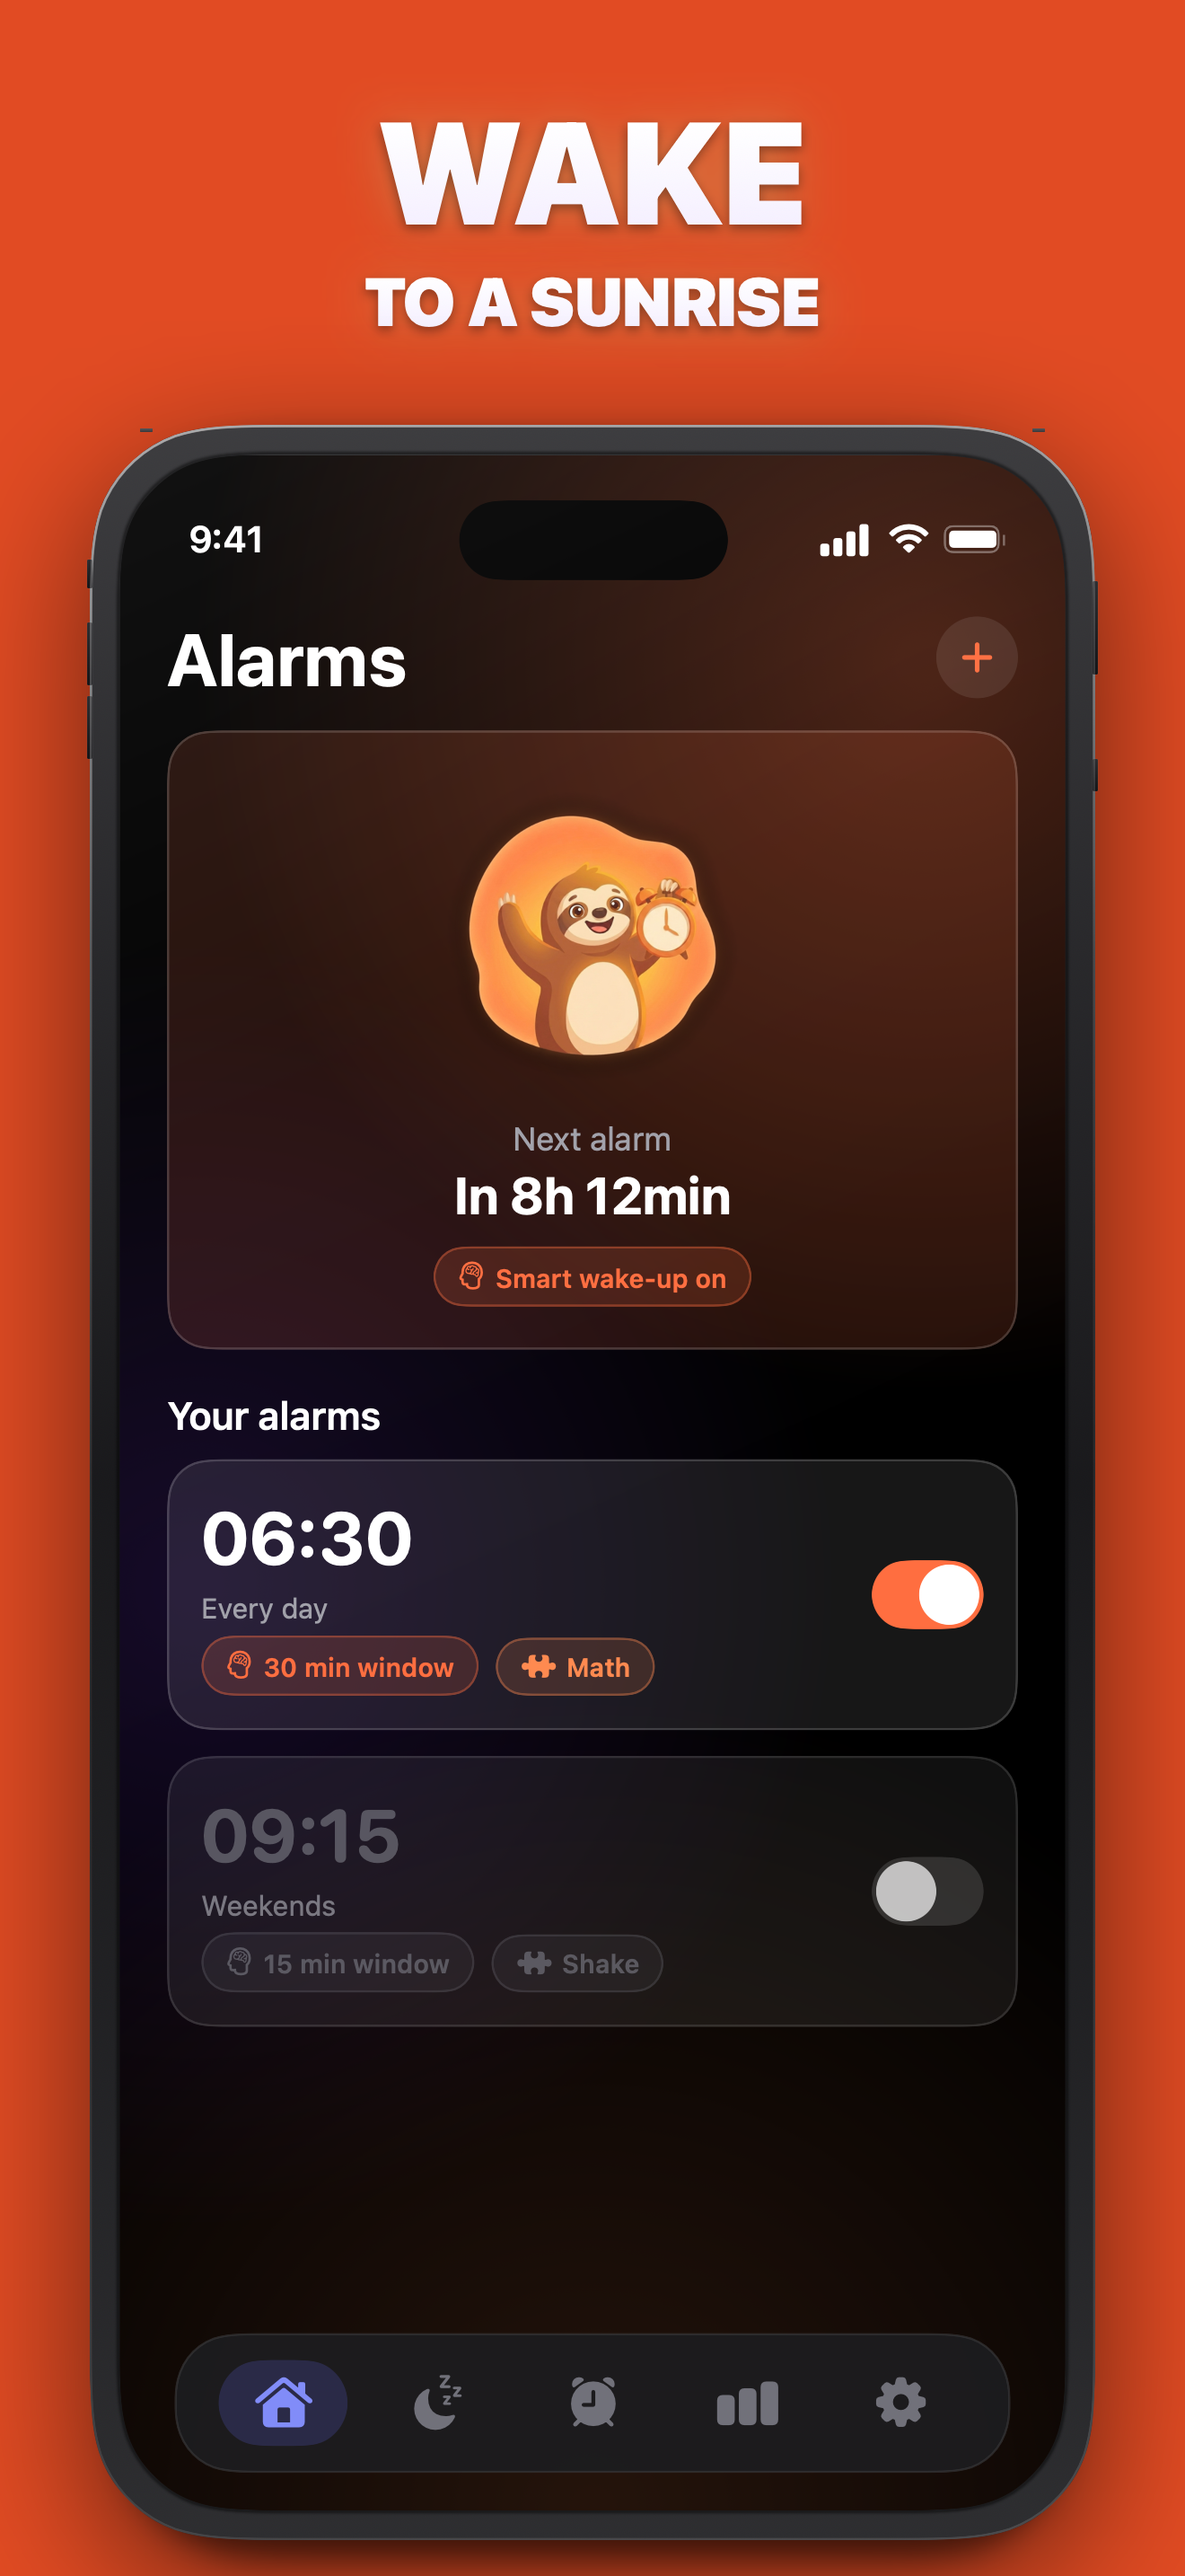
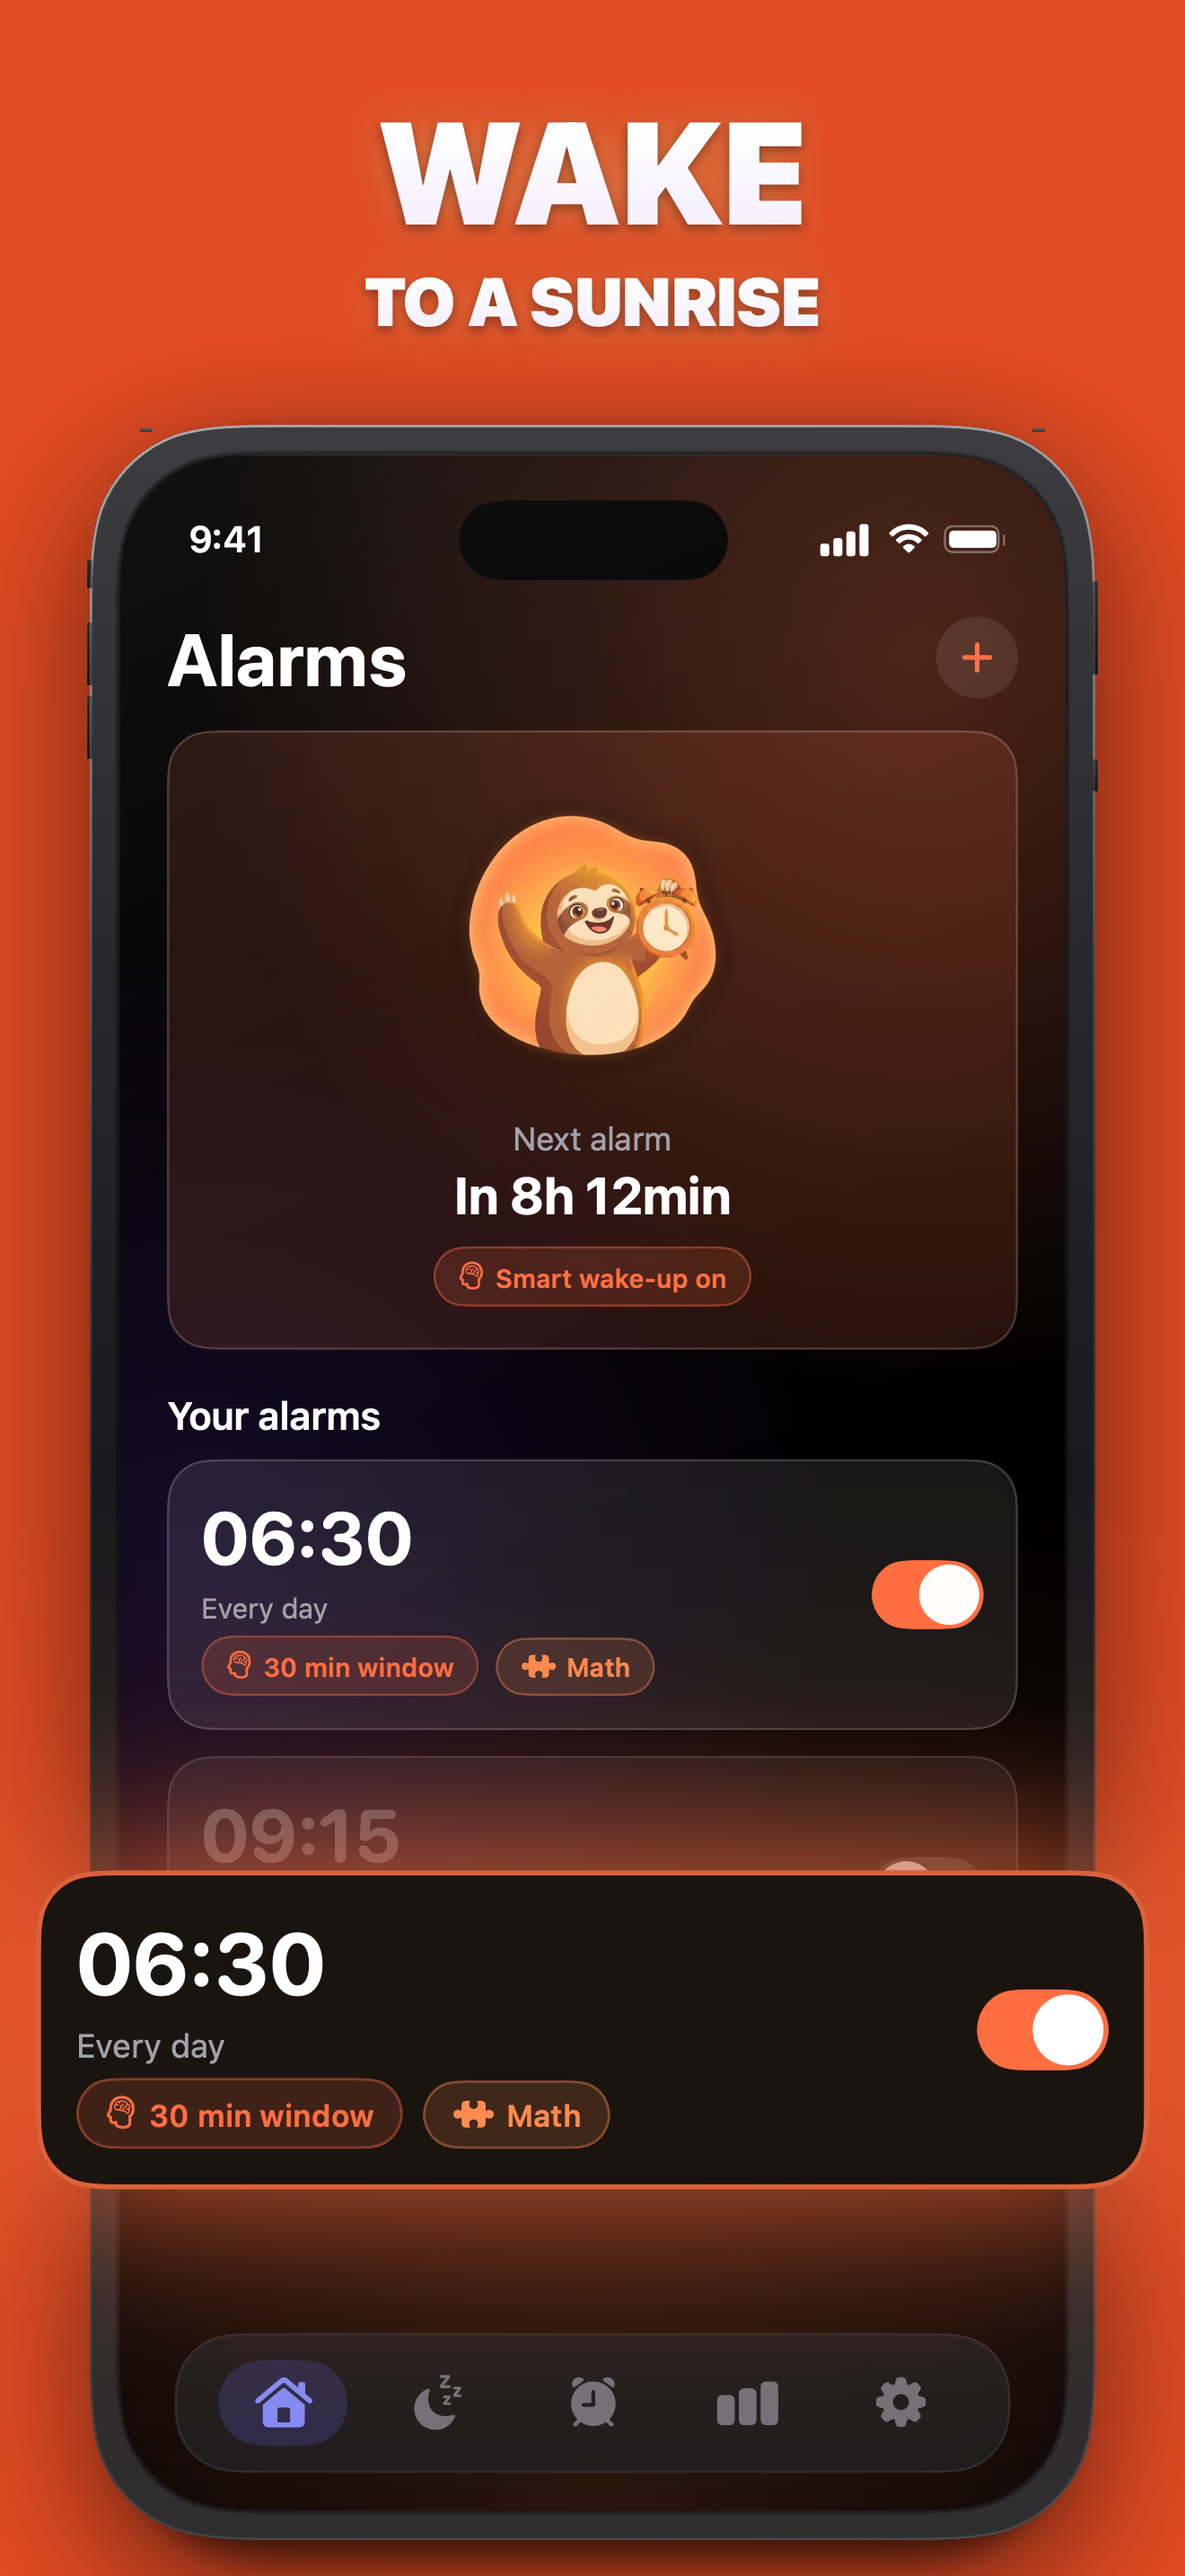
Breakouts on the prints — core component pops over the device with the brand glow
Each print's core section breaks out wider than the phone (both bezels
overhung): the smart-alarm card, the math mission, the hypnogram, the
duration-vs-goal chart; the greeting stays a standalone hero. Glow is the
app primary on all five, built as blurred plates behind the opaque card —
.shadow() under ImageRenderer stamps a plate behind every glyph (the known
kit artifact).

Changed region(s): [[0.0311, 0.6517, 0.9939, 0.8999]]

diff --git a/screenshots-tool/Sources/SoninhoScreenshots/Screens/Breakouts.swift b/screenshots-tool/Sources/SoninhoScreenshots/Screens/Breakouts.swift
@@ -1,0 +1,298 @@
+import SwiftUI
+
+// MARK: - Breakout Framing
+//
+// House look: the print's CORE component pops out over the device — scaled
+// wider than the phone (overhangs both bezels), rounded, brand-orange border
+// + glow, the SAME glow color on all five prints.
+
+private let breakoutGlow = AppPalette.primary
+
+func breakoutForeground<V: View>(
+    _ view: V,
+    authorWidth: CGFloat = 440,
+    targetWidth: CGFloat = 1240,
+    y: CGFloat,
+    canvas: CGSize
+) -> AnyView {
+    AnyView(
+        ZStack {
+            view
+                .frame(width: authorWidth)
+                .background(
+                    RoundedRectangle(cornerRadius: 24, style: .continuous)
+                        .fill(Color(hex: 0x1A140F))
+                )
+                .clipShape(RoundedRectangle(cornerRadius: 24, style: .continuous))
+                .overlay(
+                    RoundedRectangle(cornerRadius: 24, style: .continuous)
+                        .strokeBorder(breakoutGlow.opacity(0.85), lineWidth: 2)
+                )
+                // Glow as blurred plates BEHIND the opaque card — a .shadow()
+                // here makes ImageRenderer stamp a shadow plate behind every
+                // glyph (the known kit artifact).
+                .background(
+                    RoundedRectangle(cornerRadius: 28, style: .continuous)
+                        .fill(breakoutGlow.opacity(0.60))
+                        .padding(-6)
+                        .blur(radius: 30)
+                )
+                .background(
+                    RoundedRectangle(cornerRadius: 34, style: .continuous)
+                        .fill(breakoutGlow.opacity(0.28))
+                        .padding(-16)
+                        .blur(radius: 70)
+                )
+                .scaleEffect(targetWidth / authorWidth, anchor: .center)
+                .position(x: canvas.width / 2, y: y)
+        }
+        .frame(width: canvas.width, height: canvas.height)
+    )
+}
+
+// MARK: - Alarm Card (slot 1 core — the smart alarm itself)
+struct AlarmCardMock: View {
+    let locale: String
+    private func L(_ en: String, _ pt: String, _ es: String) -> String {
+        locale == "pt-BR" ? pt : (locale.hasPrefix("es") ? es : en)
+    }
+
+    var body: some View {
+        HStack(spacing: 16) {
+            VStack(alignment: .leading, spacing: 5) {
+                Text("06:30")
+                    .font(.system(size: 34, weight: .bold, design: .rounded))
+                    .foregroundStyle(AppPalette.textPrimary)
+
+                Text(L("Every day", "Todos os dias", "Todos los días"))
+                    .font(.system(size: 13))
+                    .foregroundStyle(AppPalette.textSecondary)
+
+                HStack(spacing: 8) {
+                    GlassChip(icon: "brain.head.profile", text: L("30 min window", "Janela de 30 min", "Ventana de 30 min"))
+                    GlassChip(icon: "puzzlepiece.fill", text: L("Math", "Matemática", "Cálculo"), tint: AppPalette.primaryLight)
+                }
+            }
+            Spacer()
+            Capsule()
+                .fill(AppPalette.primary)
+                .frame(width: 52, height: 32)
+                .overlay(Circle().fill(.white).frame(width: 28, height: 28).offset(x: 10))
+        }
+        .padding(16)
+    }
+}
+
+// MARK: - Mission Card (slot 2 core — solve to turn off)
+struct MissionCardMock: View {
+    let locale: String
+    private func L(_ en: String, _ pt: String, _ es: String) -> String {
+        locale == "pt-BR" ? pt : (locale.hasPrefix("es") ? es : en)
+    }
+
+    var body: some View {
+        VStack(spacing: 12) {
+            HStack(spacing: 6) {
+                ForEach(0..<3, id: \.self) { index in
+                    Circle()
+                        .fill(index == 0 ? AppPalette.primary : Color.white.opacity(0.18))
+                        .frame(width: 9, height: 9)
+                }
+            }
+
+            Text(L("Solve to turn off", "Resolva para desligar", "Resuelve para apagar"))
+                .font(.system(size: 15))
+                .foregroundStyle(AppPalette.textSecondary)
+
+            Text("24 + 17")
+                .font(.system(size: 52, weight: .bold, design: .rounded))
+                .foregroundStyle(AppPalette.textPrimary)
+
+            Text("4")
+                .font(.system(size: 38, weight: .semibold, design: .rounded))
+                .foregroundStyle(AppPalette.primary)
+
+            VStack(spacing: 8) {
+                keypadRow(["1", "2", "3"])
+                keypadRow(["4", "5", "6"])
+            }
+        }
+        .padding(18)
+    }
+
+    private func keypadRow(_ keys: [String]) -> some View {
+        HStack(spacing: 8) {
+            ForEach(keys, id: \.self) { key in
+                Text(key)
+                    .font(.system(size: 24, weight: .semibold, design: .rounded))
+                    .foregroundStyle(AppPalette.textPrimary)
+                    .frame(maxWidth: .infinity)
+                    .frame(height: 50)
+                    .background(
+                        RoundedRectangle(cornerRadius: 14, style: .continuous)
+                            .fill(Color.white.opacity(0.10))
+                            .overlay(
+                                RoundedRectangle(cornerRadius: 14, style: .continuous)
+                                    .strokeBorder(Color.white.opacity(0.15), lineWidth: 1)
+                            )
+                    )
+            }
+        }
+    }
+}
+
+// MARK: - Hypnogram Card (slot 3 core — the phases chart)
+struct HypnogramCardMock: View {
+    let locale: String
+    private func L(_ en: String, _ pt: String, _ es: String) -> String {
+        locale == "pt-BR" ? pt : (locale.hasPrefix("es") ? es : en)
+    }
+
+    private let spans: [(stage: Int, width: CGFloat)] = [
+        (4, 1.2), (2, 2.0), (1, 3.4), (2, 1.2), (3, 2.2), (1, 2.6),
+        (2, 1.0), (3, 2.8), (1, 2.2), (2, 1.4), (3, 1.8), (2, 1.0), (4, 1.4),
+    ]
+
+    private func stageColor(_ s: Int) -> Color {
+        switch s {
+        case 1: return AppPalette.deepSleep
+        case 2: return AppPalette.lightSleep
+        case 3: return AppPalette.remSleep
+        default: return AppPalette.awake
+        }
+    }
+
+    var body: some View {
+        VStack(alignment: .leading, spacing: 12) {
+            HStack {
+                VStack(alignment: .leading, spacing: 2) {
+                    Text(L("Sleep score", "Nota do sono", "Puntuación"))
+                        .font(.system(size: 13))
+                        .foregroundStyle(AppPalette.textSecondary)
+                    Text("86")
+                        .font(.system(size: 36, weight: .bold, design: .rounded))
+                        .foregroundStyle(AppPalette.success)
+                }
+                Spacer()
+                Text(L("7h 42min asleep", "7h 42min dormindo", "7h 42min dormido"))
+                    .font(.system(size: 14))
+                    .foregroundStyle(AppPalette.textSecondary)
+            }
+
+            hypnogram
+
+            HStack(spacing: 14) {
+                legendDot(AppPalette.awake, L("Awake", "Acordado", "Despierto"))
+                legendDot(AppPalette.lightSleep, L("Light", "Leve", "Ligero"))
+                legendDot(AppPalette.remSleep, "REM")
+                legendDot(AppPalette.deepSleep, L("Deep", "Profundo", "Profundo"))
+            }
+            .frame(maxWidth: .infinity)
+        }
+        .padding(18)
+    }
+
+    private var hypnogram: some View {
+        GeometryReader { geo in
+            let total = spans.reduce(0) { $0 + $1.width }
+            let rowHeight: CGFloat = (geo.size.height - 9) / 4
+            HStack(spacing: 1) {
+                ForEach(Array(spans.enumerated()), id: \.offset) { _, span in
+                    VStack(spacing: 0) {
+                        Spacer()
+                            .frame(height: CGFloat(span.stage - 1) * (rowHeight + 3))
+                        RoundedRectangle(cornerRadius: 3)
+                            .fill(stageColor(span.stage))
+                            .frame(height: rowHeight)
+                        Spacer(minLength: 0)
+                    }
+                    .frame(width: max(3, (geo.size.width - CGFloat(spans.count)) * span.width / total))
+                }
+            }
+        }
+        .frame(height: 92)
+    }
+
+    private func legendDot(_ color: Color, _ label: String) -> some View {
+        HStack(spacing: 5) {
+            Circle().fill(color).frame(width: 8, height: 8)
+            Text(label)
+                .font(.system(size: 12))
+                .foregroundStyle(AppPalette.textSecondary)
+        }
+    }
+}
+
+// MARK: - Duration Chart Card (slot 5 core — week vs goal)
+struct DurationChartCardMock: View {
+    let locale: String
+    private func L(_ en: String, _ pt: String, _ es: String) -> String {
+        locale == "pt-BR" ? pt : (locale.hasPrefix("es") ? es : en)
+    }
+
+    private let bars: [(day: String, hours: CGFloat, good: Bool)] = [
+        ("S", 6.8, false), ("M", 7.6, true), ("T", 8.1, true), ("W", 7.2, true),
+        ("T", 6.4, false), ("F", 7.9, true), ("S", 8.4, true),
+    ]
+
+    var body: some View {
+        VStack(alignment: .leading, spacing: 12) {
+            HStack {
+                Text(L("Sleep duration", "Duração do sono", "Duración del sueño"))
+                    .font(.system(size: 16, weight: .semibold))
+                    .foregroundStyle(AppPalette.textPrimary)
+                Spacer()
+                GlassChip(icon: "target", text: L("Goal 8h", "Meta 8h", "Meta 8h"), tint: AppPalette.success)
+            }
+
+            GeometryReader { geo in
+                let maxH = geo.size.height - 22
+                ZStack(alignment: .bottom) {
+                    VStack(spacing: 0) {
+                        Spacer().frame(height: maxH * (1 - 8.0 / 9.0))
+                        Rectangle()
+                            .fill(Color.clear)
+                            .frame(height: 1)
+                            .overlay(
+                                Rectangle()
+                                    .fill(AppPalette.textTertiary)
+                                    .frame(height: 1)
+                                    .mask(dashMask(width: geo.size.width))
+                            )
+                        Spacer()
+                    }
+                    HStack(alignment: .bottom, spacing: 10) {
+                        ForEach(Array(bars.enumerated()), id: \.offset) { _, bar in
+                            VStack(spacing: 6) {
+                                RoundedRectangle(cornerRadius: 5)
+                                    .fill(
+                                        LinearGradient(
+                                            colors: bar.good
+                                                ? [AppPalette.primaryLight, AppPalette.primary]
+                                                : [AppPalette.primary.opacity(0.45), AppPalette.primary.opacity(0.3)],
+                                            startPoint: .top, endPoint: .bottom
+                                        )
+                                    )
+                                    .frame(height: maxH * bar.hours / 9.0)
+                                Text(bar.day)
+                                    .font(.system(size: 11))
+                                    .foregroundStyle(AppPalette.textTertiary)
+                            }
+                            .frame(maxWidth: .infinity)
+                        }
+                    }
+                }
+            }
+            .frame(height: 150)
+        }
+        .padding(18)
+    }
+
+    private func dashMask(width: CGFloat) -> some View {
+        HStack(spacing: 5) {
+            ForEach(0..<Int(width / 10), id: \.self) { _ in
+                Rectangle().frame(width: 5, height: 1)
+            }
+        }
+    }
+}

diff --git a/screenshots-tool/Sources/SoninhoScreenshots/main.swift b/screenshots-tool/Sources/SoninhoScreenshots/main.swift
@@ -123,19 +123,22 @@ func renderLocaleSet(
     // Slot 1: Main / Home
     let url1 = outputDir.appendingPathComponent("01_main_iphone.png")
     try render(view: marketing(device: device, slot: 0, totalSlots: totalSlots,
-                                headline: treatment.home[locale], theme: theme) { MainScreen(locale: locale) },
+                                headline: treatment.home[locale], theme: theme,
+                                foreground: breakoutForeground(AlarmCardMock(locale: locale), y: 2260, canvas: canvas)) { MainScreen(locale: locale) },
                 canvas: canvas, scale: 1.0, to: url1)
 
     // Slot 2: Feature 1
     let url2 = outputDir.appendingPathComponent("02_feature1_iphone.png")
     try render(view: marketing(device: device, slot: 1, totalSlots: totalSlots,
-                                headline: treatment.feature1[locale], theme: theme) { Feature1Screen(locale: locale) },
+                                headline: treatment.feature1[locale], theme: theme,
+                                foreground: breakoutForeground(MissionCardMock(locale: locale), y: 2080, canvas: canvas)) { Feature1Screen(locale: locale) },
                 canvas: canvas, scale: 1.0, to: url2)
 
     // Slot 3: Feature 2
     let url3 = outputDir.appendingPathComponent("03_feature2_iphone.png")
     try render(view: marketing(device: device, slot: 2, totalSlots: totalSlots,
-                                headline: treatment.feature2[locale], theme: theme) { Feature2Screen(locale: locale) },
+                                headline: treatment.feature2[locale], theme: theme,
+                                foreground: breakoutForeground(HypnogramCardMock(locale: locale), y: 1980, canvas: canvas)) { Feature2Screen(locale: locale) },
                 canvas: canvas, scale: 1.0, to: url3)
 
     // Slot 4: Settings
@@ -147,7 +150,8 @@ func renderLocaleSet(
     // Slot 5: Onboarding
     let url5 = outputDir.appendingPathComponent("05_stats_iphone.png")
     try render(view: marketing(device: device, slot: 4, totalSlots: totalSlots,
-                                headline: treatment.onboarding[locale], theme: theme) { StatsScreen(locale: locale) },
+                                headline: treatment.onboarding[locale], theme: theme,
+                                foreground: breakoutForeground(DurationChartCardMock(locale: locale), y: 2050, canvas: canvas)) { StatsScreen(locale: locale) },
                 canvas: canvas, scale: 1.0, to: url5)
 
     // Slot 6: App Store listing mockup (validation only, abtest mode only)
@@ -200,6 +204,7 @@ func marketing<Content: View>(
     totalSlots: Int,
     headline: Headline?,
     theme: MarketingTheme,
+    foreground: AnyView? = nil,
     @ViewBuilder content: () -> Content
 ) -> some View {
     let h = headline ?? Headline(text: "", highlight: nil)
@@ -210,6 +215,7 @@ func marketing<Content: View>(
         slotIndex: slot,
         totalSlots: totalSlots,
         theme: theme,
+        foreground: foreground,
         splitFirstWord: true,   // big first word + smaller ≤3-word line (steps pattern)
         content: content
     )
